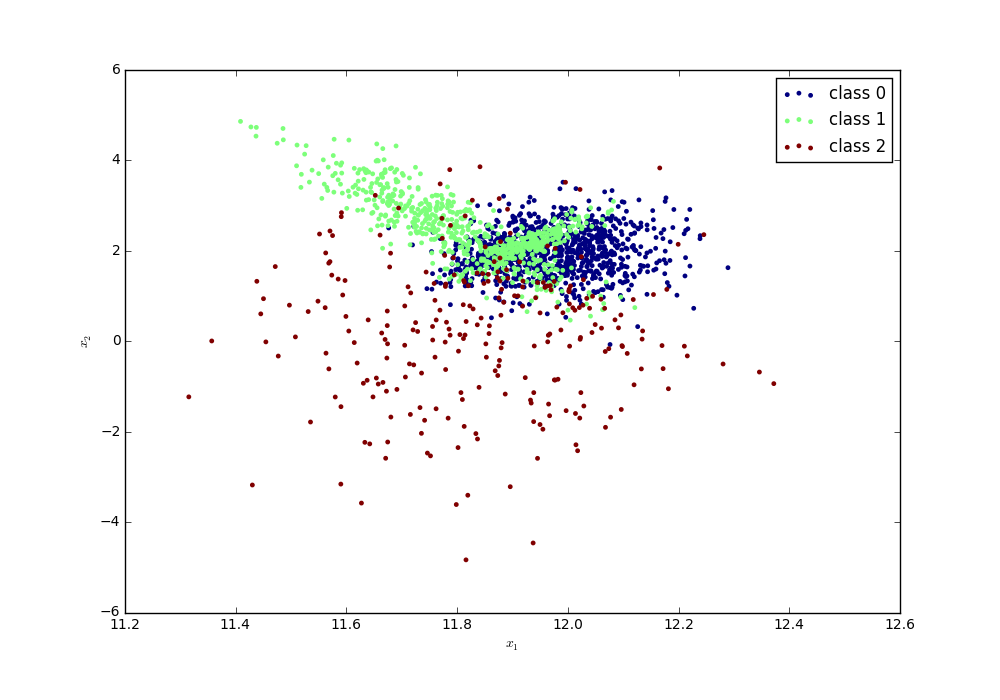
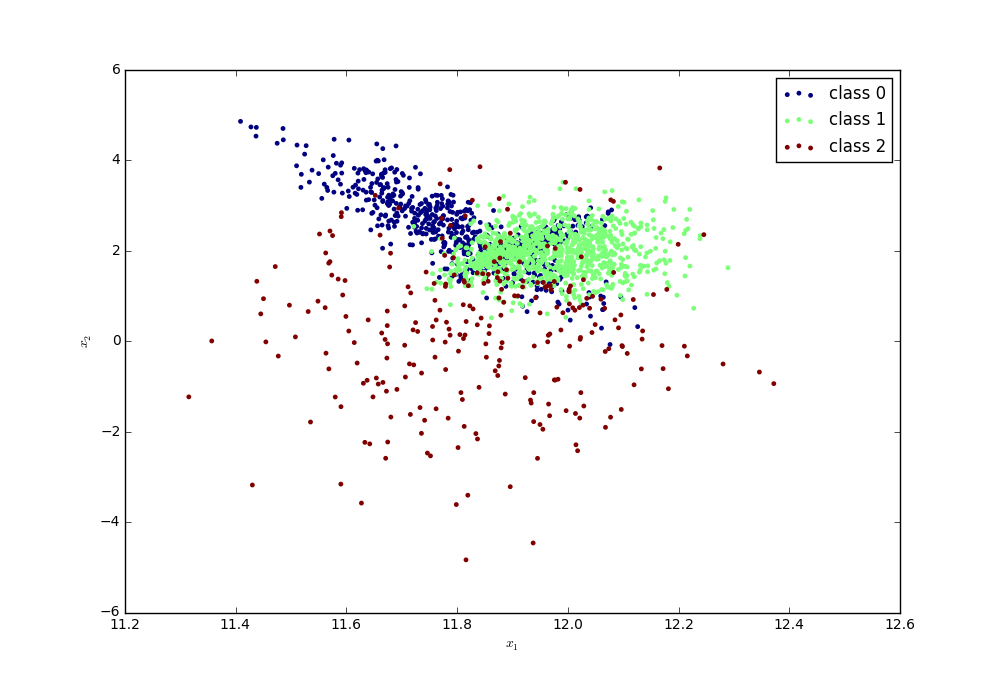
Plot up to 4 classes

Changed region(s): [[0.31, 0.21, 0.682, 0.45], [0.248, 0.18, 0.31, 0.21]]

diff --git a/assignment-4/exercise3.py b/assignment-4/exercise3.py
@@ -159,6 +159,7 @@ def EM(K, x1, x2, x3, x4):
         scatter_one_class(c1,c2,"$x_1$","$x_2$","ex3plots/class_"+str(K)+"_"+str(i+1), color=color, label='class '+str(class_number))        
         
         print "Class ", class_number, "corrcoef:", np.corrcoef(c1,c2)
+        print "Size: ", len(c), "fraction:", len(c)/N
                 
         
 
@@ -169,8 +170,8 @@ if __name__ == "__main__":
     x2 = np.array(x2)
     x3 = np.array(x3)
     x4 = np.array(x4)
-    
-    EM(2, x1, x2, x3, x4)
+    np.random.seed(0)
+    EM(4, x1, x2, x3, x4)
     
     #print X
     #plot_hist(X)
